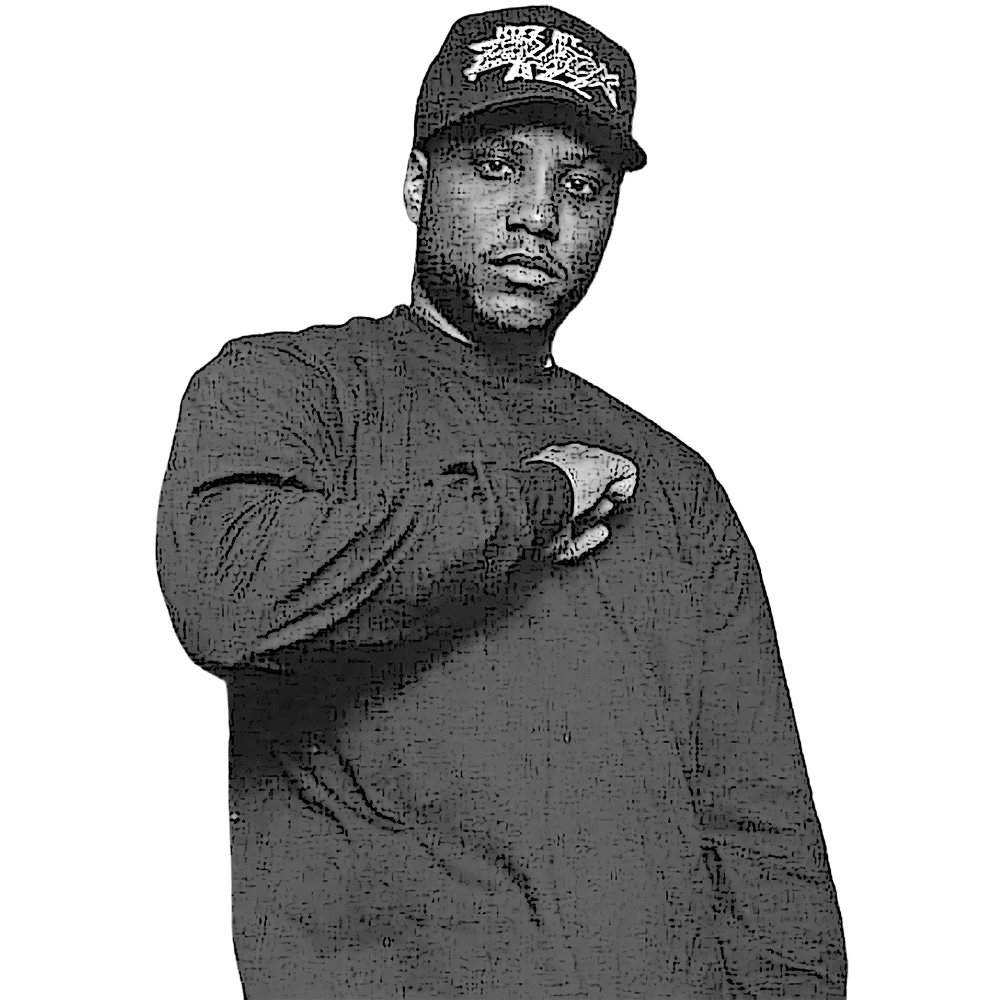
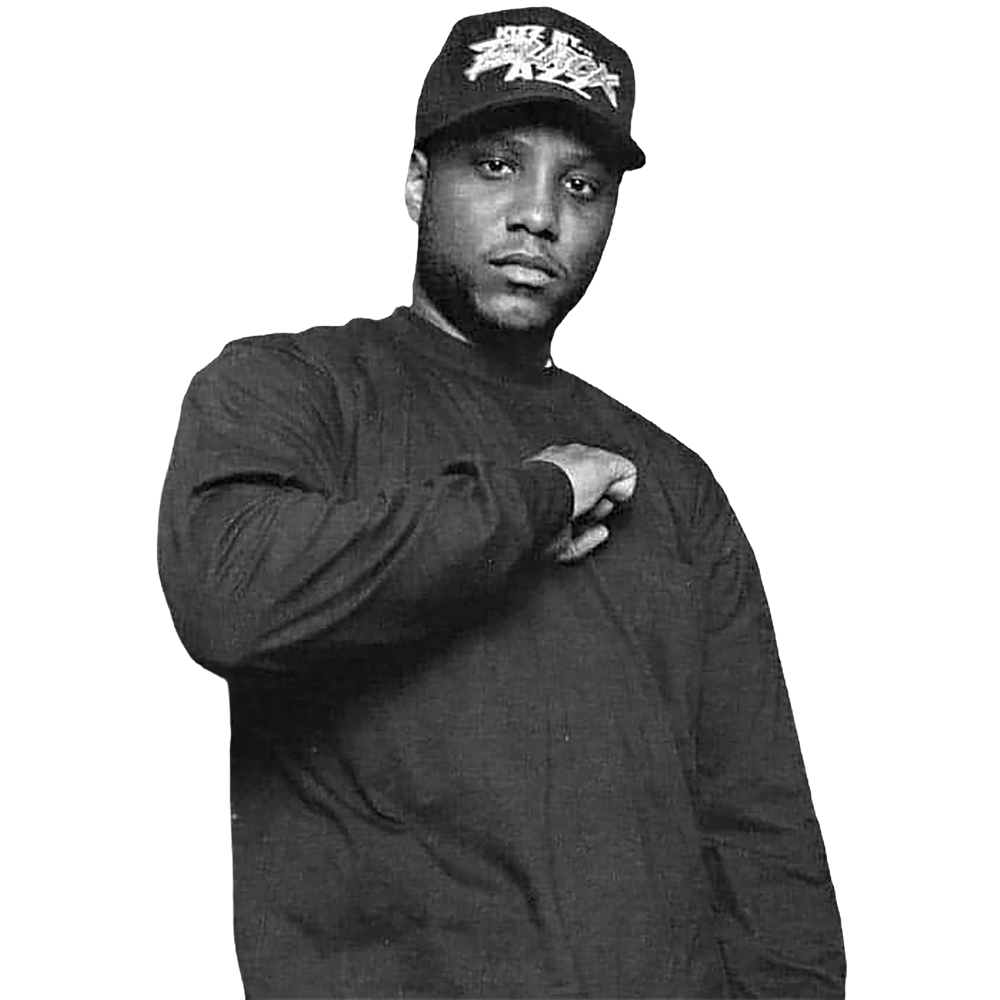
debug musique + entrée site

Changed region(s): [[0.155, 0.0, 0.868, 1.0]]

diff --git a/script.js b/script.js
@@ -1,4 +1,116 @@
 // ============================================
+// ECRAN D'ENTRÉE (Splash Screen)
+// ============================================
+function initEntryScreen() {
+  const entryOverlay = document.querySelector('.entry-overlay');
+  const entryButton = document.querySelector('.entry-button');
+  const body = document.body;
+  
+  if (!entryOverlay || !entryButton) return;
+  
+  // Bloquer le scroll (Lenis) tant qu'on n'a pas cliqué
+  lenis.stop();
+  
+  entryButton.addEventListener('click', () => {
+    // 1. Activer la musique
+    ChapterMusicManager.isUserInteracted = true;
+    ChapterMusicManager.isSoundMuted = false;
+    
+    // Précharger et préparer les audios
+    ChapterMusicManager.audioElements.forEach(({ audio }) => {
+      audio.muted = true;
+      audio.play().then(() => {
+        audio.pause();
+        audio.currentTime = 0;
+        audio.muted = false;
+      }).catch(() => {});
+    });
+    
+    // Mettre à jour le bouton son
+    const soundToggle = document.querySelector('.sound-toggle');
+    if (soundToggle) {
+      soundToggle.classList.remove('muted');
+    }
+    
+    // 2. Désactiver les clics sur l'overlay
+    entryOverlay.classList.add('hidden');
+    
+    // 3. Animer l'entrée des personnages
+    animateCarouselEntry();
+    
+    // 4. Débloquer le scroll une fois l'animation bien lancée
+    setTimeout(() => {
+      lenis.start();
+    }, 1800);
+  });
+}
+
+function animateCarouselEntry() {
+  const body = document.body;
+  const navbar = document.querySelector('.navbar');
+  const entryContent = document.querySelector('.entry-content');
+  
+  // Récupérer toutes les cartes des deux rangées
+  const backRowCards = document.querySelectorAll('.back-row .person-card');
+  const frontRowCards = document.querySelectorAll('.front-row .person-card');
+  const allCards = [...backRowCards, ...frontRowCards];
+  
+  // Timeline principale
+  const tl = gsap.timeline({
+    onComplete: () => {
+      const entryOverlay = document.querySelector('.entry-overlay');
+      if (entryOverlay) entryOverlay.remove();
+      ChapterMusicManager.checkVisibleChapter();
+    }
+  });
+  
+  // Phase 1 : Disparition du contenu d'entrée
+  tl.to(entryContent, {
+    opacity: 0,
+    scale: 0.9,
+    duration: 0.5,
+    ease: 'power2.in'
+  });
+  
+  // Préparer les éléments (cachés) - seulement opacity, pas de transform
+  gsap.set(allCards, { opacity: 0 });
+  gsap.set(navbar, { opacity: 0 });
+  
+  // Retirer site-locked
+  body.classList.remove('site-locked');
+  
+  // Phase 2 : Fade in de la rangée arrière depuis le centre
+  tl.to(backRowCards, {
+    opacity: 1,
+    duration: 0.8,
+    ease: 'power1.out',
+    stagger: {
+      each: 0.06,
+      from: 'center'
+    }
+  }, '-=0.1');
+  
+  // Phase 3 : Fade in de la rangée avant
+  tl.to(frontRowCards, {
+    opacity: 1,
+    duration: 0.8,
+    ease: 'power1.out',
+    stagger: {
+      each: 0.08,
+      from: 'center'
+    }
+  }, '-=0.6');
+  
+  // Phase 4 : Navbar - rapide et direct
+  tl.to(navbar, {
+    opacity: 1,
+    duration: 0.4,
+    ease: 'power1.out',
+    clearProps: 'opacity'
+  }, '-=0.3');
+}
+
+// ============================================
 // GSAP + ScrollTrigger + ScrollToPlugin
 // ============================================
 gsap.registerPlugin(ScrollTrigger, ScrollToPlugin);
@@ -863,10 +975,27 @@ function initHoverAudio() {
     }
   }
 
+  // Arrêter la musique de hover au clic (avant la navigation)
+  function onClick(e) {
+    const entry = audioMap.get(e.currentTarget);
+    if (entry?.audio) {
+      // Arrêter immédiatement la musique de hover
+      if (entry.audio._fadeTimer) clearInterval(entry.audio._fadeTimer);
+      fadeTo(entry.audio, 0, 300, () => {
+        entry.audio.pause();
+        entry.audio.currentTime = 0;
+      });
+    }
+    
+    // Ne pas reprendre la musique du chapitre actuel car on va changer de chapitre
+    // La nouvelle musique du chapitre sera gérée par ChapterMusicManager
+  }
+
   const hoverTargets = document.querySelectorAll('.nav-links a[data-audio]');
   hoverTargets.forEach(t => {
     t.addEventListener('mouseenter', onEnter);
     t.addEventListener('mouseleave', onLeave);
+    t.addEventListener('click', onClick);
   });
 
   // Débloquer l'audio au premier clic/toucher
@@ -1146,6 +1275,7 @@ function initCurtainTransition() {
 // INITIALISATION
 // ============================================
 function init() {
+  initEntryScreen(); // IMPORTANT: Doit être appelé en premier
   ChapterMusicManager.init();
   initHorizontalSections();
   initCurtainTransition(); // Après initHorizontalSections pour avoir les ScrollTriggers

diff --git a/style.css b/style.css
@@ -13,7 +13,7 @@
 body {
   margin: 0;
   font-family: 'IntegralCF-Bold', sans-serif;
-  background-color: #c6c6c6;
+  background-color: #0A0A0A;
   overflow-x: hidden;
 }
 
@@ -22,7 +22,7 @@ header {
   height: 100vh;
   position: relative;
   overflow: hidden;
-  background-color: #c6c6c6;
+  background-color: #0A0A0A;
 }
 
 /* Empêcher le scroll quand on est dans la hero */
@@ -44,7 +44,7 @@ body.in-hero {
   width: 100%;
   height: 100%;
   overflow: hidden;
-  background-color: #fff;
+  background-color: #0A0A0A;
   position: relative;
   z-index: 1;
   display: flex;
@@ -179,7 +179,7 @@ body.in-hero {
   background-color: #EC1D31;
   border-radius: 50%;
   padding: 17px;
-  transition: all 0.5s ease;
+  transition: all 0.5s ease, bottom 0.8s cubic-bezier(0.16, 1, 0.3, 1), opacity 0.6s ease;
   display: flex;
   align-items: center;
   justify-content: center;
@@ -680,6 +680,152 @@ body::-webkit-scrollbar {
   width: 0 !important;
   height: 0 !important;
   display: none;
+}
+
+/* ============================================
+   ECRAN D'ENTRÉE (Splash Screen)
+   ============================================ */
+.entry-overlay {
+  position: fixed;
+  top: 0;
+  left: 0;
+  width: 100%;
+  height: 100vh;
+  background-color: transparent;
+  z-index: 10000;
+  display: flex;
+  align-items: center;
+  justify-content: center;
+  pointer-events: none;
+}
+
+.entry-overlay.hidden {
+  pointer-events: none;
+}
+
+.entry-content {
+  text-align: center;
+  pointer-events: auto;
+  background: radial-gradient(ellipse at center, rgba(0,0,0,0.75) 0%, rgba(0,0,0,0.5) 40%, transparent 70%);
+  padding: 80px 120px;
+  border-radius: 20px;
+}
+
+.entry-overlay.hidden .entry-content {
+  pointer-events: none;
+}
+
+.entry-title {
+  font-family: 'IntegralCF-Bold', sans-serif;
+  font-size: clamp(80px, 20vw, 250px);
+  color: #EC1D31;
+  margin: 0;
+  text-transform: uppercase;
+  letter-spacing: 10px;
+  text-shadow: 0 0 60px rgba(236, 29, 49, 0.6);
+  animation: titlePulse 3s ease-in-out infinite;
+}
+
+@keyframes titlePulse {
+  0%, 100% {
+    text-shadow: 0 0 60px rgba(236, 29, 49, 0.6);
+  }
+  50% {
+    text-shadow: 0 0 100px rgba(236, 29, 49, 0.9), 0 0 150px rgba(236, 29, 49, 0.4);
+  }
+}
+
+.entry-subtitle {
+  font-family: 'mongoose', sans-serif;
+  font-size: clamp(18px, 4vw, 36px);
+  color: #ffffff;
+  margin: 20px 0 60px 0;
+  text-transform: uppercase;
+  letter-spacing: 8px;
+  opacity: 0.7;
+}
+
+.entry-button {
+  background-color: #EC1D31;
+  border: none;
+  border-radius: 60px;
+  padding: 20px 50px;
+  cursor: pointer;
+  display: inline-flex;
+  align-items: center;
+  gap: 15px;
+  transition: all 0.4s ease;
+  position: relative;
+  overflow: hidden;
+}
+
+.entry-button::before {
+  content: '';
+  position: absolute;
+  top: 0;
+  left: -100%;
+  width: 100%;
+  height: 100%;
+  background: linear-gradient(90deg, transparent, rgba(255,255,255,0.2), transparent);
+  transition: left 0.6s ease;
+}
+
+.entry-button:hover::before {
+  left: 100%;
+}
+
+.entry-button:hover {
+  transform: scale(1.05);
+  box-shadow: 0 10px 40px rgba(236, 29, 49, 0.5);
+}
+
+.entry-button-text {
+  font-family: 'mongoose', sans-serif;
+  font-size: clamp(20px, 3vw, 28px);
+  color: #ffffff;
+  text-transform: uppercase;
+  letter-spacing: 3px;
+}
+
+.entry-button-icon {
+  width: 24px;
+  height: 24px;
+  color: #ffffff;
+  animation: playPulse 1.5s ease-in-out infinite;
+}
+
+@keyframes playPulse {
+  0%, 100% {
+    transform: scale(1);
+  }
+  50% {
+    transform: scale(1.2);
+  }
+}
+
+.entry-hint {
+  font-family: 'mongoose', sans-serif;
+  font-size: 14px;
+  color: #ffffff;
+  margin-top: 30px;
+  opacity: 0.4;
+  text-transform: uppercase;
+  letter-spacing: 2px;
+}
+
+/* État initial : masquer carrousel et navbar quand site-locked */
+body.site-locked {
+  overflow: hidden !important;
+}
+
+body.site-locked .person-card {
+  opacity: 0 !important;
+}
+
+/* Animation d'entrée de la navbar */
+body.site-locked .navbar {
+  opacity: 0;
+  pointer-events: none;
 }
 
 /* ============================================

diff --git a/index.html b/index.html
@@ -9,11 +9,28 @@
   <link rel="stylesheet" href="https://use.typekit.net/sjq4uhb.css">
 </head>
 
-<body class="in-hero">
+<body class="in-hero site-locked">
+  <!-- ============================================
+       ECRAN D'ENTRÉE (Splash Screen)
+       ============================================ -->
+  <div class="entry-overlay">
+    <div class="entry-content">
+      <h1 class="entry-title">N.W.A</h1>
+      <p class="entry-subtitle">The World's Most Dangerous Group</p>
+      <button class="entry-button">
+        <span class="entry-button-text">Entrer sur le site</span>
+        <svg class="entry-button-icon" xmlns="http://www.w3.org/2000/svg" viewBox="0 0 24 24" fill="none" stroke="currentColor" stroke-width="2" stroke-linecap="round" stroke-linejoin="round">
+          <polygon points="5 3 19 12 5 21 5 3"></polygon>
+        </svg>
+      </button>
+      <p class="entry-hint">Cliquez pour activer le son</p>
+    </div>
+  </div>
+
   <header>
     <section class="hero-section">
       <div class="image-container">
-        <img src="img/bg-hero.jpg" alt="bg-hero" class="hero-img">
+        <img src="img/bg-hero2.jpg" alt="bg-hero" class="hero-img">
       </div>
       <!-- Rangée arrière-plan -->
       <div class="carousel-row back-row">
